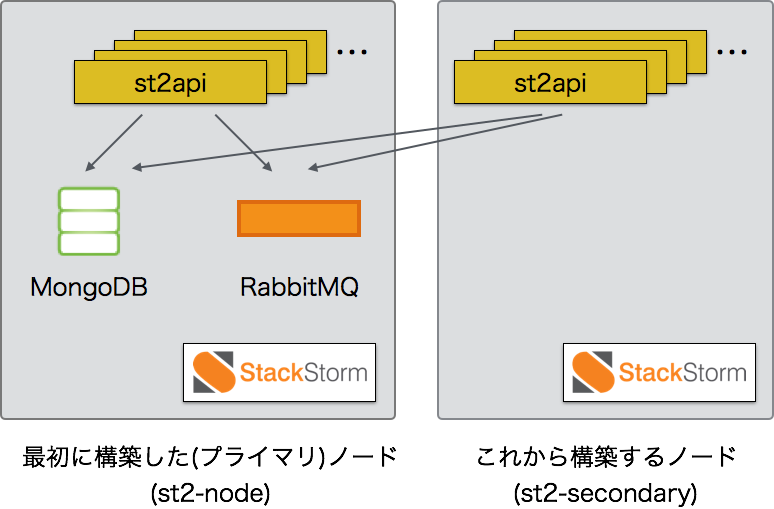
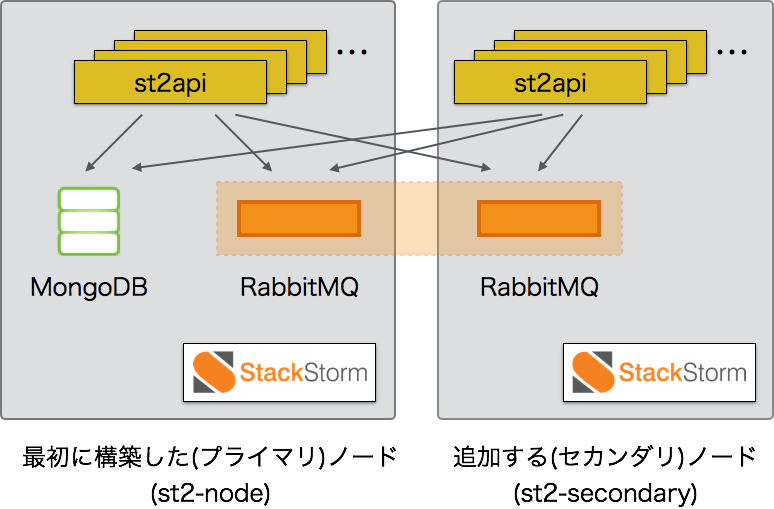
corrects the description to build HA nodes

diff --git a/chapter2-2.md b/chapter2-2.md
@@ -1,26 +1,49 @@
 ## High Available な環境構築
-　これまで StackStorm の使い方や機能拡張の方法など、どちらかというと開発寄りな内容について解説してきましたが、ここからは StackStorm の運用のポイントについて解説します。  
-　本稿の冒頭で StackStorm が Scalable で High Available なアーキテクチャであることを説明しました。ここでは、冗長構成な StackStorm における運用の注意点について簡単に解説します。  
+　これまで StackStorm の使い方や機能拡張の方法など、開発寄りな内容について解説してきましたが、ここからは StackStorm の運用のポイントについて解説します。  
+　本稿の冒頭で StackStorm が Scalable で High Available なアーキテクチャであることを説明しました。ここでは、冗長構成な StackStorm における運用の注意点について解説します。  
 
 ### 冗長構成な StackStorm の構築
 
 　ここで冗長構成な StackStorm を構築します。  
-　[StackStorm のドキュメント](https://docs.stackstorm.com/reference/ha.html#reference-ha-setup) に、以下の構成での構築方法が詳細に解説されていますが、ここでは簡単のために別の方法を紹介します。  
+　[StackStorm のドキュメント](https://docs.stackstorm.com/reference/ha.html#reference-ha-setup) に、以下の構成での構築方法が解説されていますが、ここでは簡単のために別の方法を紹介します。  
 
 ![StackStorm HA reference deployment](https://docs.stackstorm.com/_images/st2-deployment-multi-node.png)
 (出典：[High availability deployment | StackStorm 2.0.1 documentation](https://docs.stackstorm.com/reference/ha.html))
 
-　ここでは、最初に構築したノードをプライマリノードとし、これから構築するノードをセカンダリノードとする環境を構築します。図にすると以下のようになります。  
+　ここでは、最初に構築したノードをプライマリノードとし、これから構築するノードをセカンダリノードとする環境を構築します。図にすると以下のようになります。なお以降では Mistral を利用しないため PostgreSQL についての設定は省略します。  
 
 ![StackStorm 冗長構成](https://raw.githubusercontent.com/userlocalhost2000/st2-draft/master/img/ha-architecture.png)
 
 　上記の構成で StackStorm の各サービスは冗長化しますが「プライマリノードが単一障害点になるじゃないか！」と思う鋭い読者もいるかもしれません。  
-　確かに現状はその通りですが、[MongoDB のレプリケーション](https://docs.mongodb.com/manual/replication/) や [RabbitMQ の HA queue](https://www.rabbitmq.com/ha.html) を利用することで、完全に単一障害点を無くす構成の StackStorm 環境を構築することもできます。これらの解説については本稿の趣旨を超えるため、ここでは割愛し上記の構成で話を進めます。  
+　確かに現状はその通りですが、[MongoDB のレプリケーション](https://docs.mongodb.com/manual/replication/) や [RabbitMQ のクラスタ設定](https://www.rabbitmq.com/clustering.html) を利用することで、完全に単一障害点を無くす構成の StackStorm 環境を構築することもできます (本章の最後で DMM.com ラボにおける構成を紹介します)。これらの解説については本稿の趣旨を超えるためここでは割愛します。ただし RabbitMQ については、StackStorm のクラスタ指定の説明の都合上、簡単に解説します。 
 
 ### プライマリノードの設定変更
 　冗長構成を構築するに際し、プライマリノードにおいて、セカンダリノードからの MongoDB 及び RabbitMQ へのアクセスを許可するための設定と NFS の設定を行います。  
 
-　まずは MongoDB にセカンダリノードからアクセスできるよう設定ファイル (/etc/mongodb.conf) ファイルを以下の通り修正し、サービスを再起動させます。  
+#### RabbitMQ の設定
+　RabbitMQ のクラスタ環境を構築するために、ノード間で共通の [Erlang Cookie] を設定します。Erlang Cookie は RabbitMQ の実装言語 Erlang の言語機能で、複数ノード間での相互接続を許可するためのセキュリティ機構です。Cookie を指定した場合、同一の設定値を持つノード同士でのみ接続することができます。  
+　ここでは、以下の通り RabbitMQ の Erlang Cookie を再設定し、RabbitMQ を再起動させます。  
+
+```
+vagrant@st2-node:~$ sudo service rabbitmq-server stop
+vagrant@st2-node:~$ sudo bash -c 'echo stackstorm-mq-cluster > /var/lib/rabbitmq/.erlang.cookie'
+vagrant@st2-node:~$ sudo service rabbitmq-server start
+```
+
+　また、お互いのノードでホスト名の名前解決ができるよう `/etc/hosts` に以下の２行を追加します。  
+
+```
+vagrant@st2-node:~$ sudo bash -c 'cat <<EOS >> /etc/hosts
+192.168.0.100     st2-node
+192.168.0.101     st2-secondary
+EOS
+'
+```
+
+　クラスタ設定の方法については、セカンダリノードを構築する際に解説します。  
+
+#### MongoDB の設定
+　続いて MongoDB にセカンダリノードからアクセスできるよう設定ファイル (/etc/mongodb.conf) ファイルを以下の通り修正し、サービスを再起動させます。  
 
 ```diff
 --- etc/mongod.conf.orig	2016-11-28 07:18:22.490265432 +0000
@@ -37,41 +60,10 @@
 ```
 ```sh
 vagrant@st2-node:~$ sudo service mongod restart
-mongod stop/waiting
-mongod start/running, process 21613
-vagrant@st2-node:~$ 
 ```
 
-　これに伴い StackStorm の設定ファイル `/etc/st2/st2.conf` を以下の通り修正し、サービスを再起動させます。  
-
-```diff
---- etc/st2/st2.conf.orig	2016-11-28 07:08:40.748655911 +0000
-+++ /etc/st2/st2.conf	2016-11-28 10:12:46.297432991 +0000
-@@ -81,3 +81,6 @@
- 
- [keyvalue]
- encryption_key_path = /etc/st2/keys/datastore_key.json
-+
-+[database]
-+host = 192.168.0.100
-```
-```sh
-vagrant@st2-node:~$ sudo st2ctl restart
-```
-
-　続いて RabbitMQ にセカンダリノード用のアカウントを作成します。これまでのマスターノードは、デフォルトで作成される `guest` アカウントでログインしていましたが、[`guest` アカウントはローカルホストからしかアクセス出来ない](https://www.rabbitmq.com/access-control.html) ため、ここで別アカウント `st2` を作成し、権限の付与を行います。  
-
-```
-vagrant@st2-node:~$ sudo rabbitmqctl add_user st2 passwd
-Creating user "st2" ...
-...done.
-vagrant@st2-node:~$ sudo rabbitmqctl set_permissions st2 ".*" ".*" ".*"
-Setting permissions for user "st2" in vhost "/" ...
-...done.
-vagrant@st2-node:~$ 
-```
-
-　最後に StackStorm で冗長構成を組む場合、コンテンツディレクトリ (`/opt/stackstorm/` ディレクトリ配下の `packs` と `virtualenvs` の２つ) を共有させる必要があります。ここではプライマリノードに NFS サーバを構築し、セカンダリノードからコンテンツディレクトリがマウントできるようにします。  
+#### NFS の設定
+　StackStorm で冗長構成を組む場合、StackStorm が参照するコンテンツディレクトリ (`/opt/stackstorm/` ディレクトリ配下の `packs` と `virtualenvs` の２つ) をノード間で共有させる必要があります。ここではプライマリノードに NFS サーバを構築し、セカンダリノードからコンテンツディレクトリがマウントできるようにします。  
 
 　まずは NFS サーバをパッケージからインストールします。  
 ```
@@ -89,7 +81,7 @@ vagrant@st2-node:~$ sudo apt-get install nfs-kernel-server
 +/opt/stackstorm/packs         192.168.0.101(rw,sync,no_subtree_check,anonuid=0,anongid=999)
 +/opt/stackstorm/virtualenvs   192.168.0.101(rw,sync,no_subtree_check,anonuid=0,anongid=999)
 ```
-　オールインワンインストールをした場合、コンテンツディレクトリの所有者（ユーザ・グループ）は root/st2packs に設定されます。マウント先でも同様に扱えるようにするため `anonuid` オプションに root の uid を設定し、`anongid` オプションに st2packs の gid を設定します。尚 st2packs の gid は以下の方法で確認できます。  
+　オールインワンインストールをした場合、コンテンツディレクトリの所有者（ユーザ・グループ）は root/st2packs に設定されます。マウント先でも同様に扱えるようにするため `anonuid` と `anongid` オプションに、それぞれ root の uid と st2packs の gid を設定します。尚 st2packs の gid は以下の方法で確認できます。  
 
 ```sh
 vagrant@st2-node:~$ grep 'st2packs' /etc/group
@@ -98,26 +90,19 @@ vagrant@st2-node:~$
 ```
 
 　最後に NFS サーバを再起動させれば完了です。  
+
 ```
 vagrant@st2-node:~$ sudo service nfs-kernel-server restart
- * Stopping NFS kernel daemon
-   ...done.
- * Unexporting directories for NFS kernel daemon...
-   ...done.
- * Exporting directories for NFS kernel daemon...
-   ...done.
- * Starting NFS kernel daemon
-   ...done.
-vagrant@st2-node:~$ 
 ```
 
 ### セカンダリノードの構築
 　続いて、セカンダリノードの構築を行います。  
-　まず、これまでと同じ方法でセカンダリノードを作成し、StackStorm をインストールします。その際 Vagrantfile に設定したプライベートネットワークの IP アドレスを最初のノードに設定したものと違う値を設定してください。ここでは以下の通り Vagrantfile を修正して、[StackStorm のインストール](...) で解説した手順でインストールします。  
+　基本編の [StackStorm のインストール](https://github.com/userlocalhost/st2-draft/blob/master/chapter1-3.md) で解説した方法で Vagrant からセカンダリノードを作成し、StackStorm をインストールします。その際 Vagrantfile に設定するプライベートネットワークの IP アドレスを、プライマリノードに設定したものと違う値を設定してください。ここでは以下の通り Vagrantfile を修正して、セカンダリノードをインストールします。  
 
 ```diff
---- vagrantfile.orig	2016-11-28 16:38:22.000000000 +0900
-+++ vagrantfile	2016-11-28 16:38:30.000000000 +0900
+$ diff Vagrantfile.orig Vagrantfile
+--- Vagrantfile.orig    2016-11-16 19:06:55.000000000 +0900
++++ Vagrantfile 2016-12-05 16:49:56.000000000 +0900
 @@ -27,6 +27,8 @@
    # create a private network, which allows host-only access to the machine
    # using a specific ip.
@@ -138,31 +123,50 @@ vagrant@st2-node:~$
    #
    # view the documentation for the provider you are using for more
    # information on available options.
+$ vagrant up
+$ vagrant ssh
 ```
 
-　StackStorm がインストールされたら、DB・MQ の接続先をプライマリノードに変更するために StackStorm の設定ファイル `/etc/st2/st2.conf` を以下の通り修正します。  
+　セカンダリノードが立ち上がったら、構築したノードで StackStorm をインストールします。  
 
-```diff
---- etc/st2/st2.conf.orig	2016-11-28 09:33:07.591549477 +0000
-+++ /etc/st2/st2.conf	2016-11-28 09:53:40.659583816 +0000
-@@ -73,7 +73,7 @@
- ssh_key_file = /home/stanley/.ssh/stanley_rsa
- 
- [messaging]
--url = amqp://guest:guest@127.0.0.1:5672/
-+url = amqp://st2:passwd@192.168.0.100:5672/
- 
- [ssh_runner]
- remote_dir = /tmp
-@@ -81,3 +81,6 @@
- 
- [keyvalue]
- encryption_key_path = /etc/st2/keys/datastore_key.json
-+
-+[database]
-+host = 192.168.0.100
+```
+vagrant@st2-secondary:~$ curl -sSL https://stackstorm.com/packages/install.sh | bash -s -- --user=st2admin --password=password
 ```
 
+#### RabbitMQ クラスタ設定
+　プライマリノードで実行した時と同じように、セカンダリノードでも `/etc/hosts` の修正、及び RabbitMQ の Erlang Cookie の再設定を行います。  
+
+```
+vagrant@st2-secondary:~$ sudo bash -c 'cat <<EOS >> /etc/hosts
+192.168.0.100     st2-node
+192.168.0.101     st2-secondary
+EOS
+'
+```
+
+```
+vagrant@st2-secondary:~$ sudo service rabbitmq-server stop
+vagrant@st2-secondary:~$ sudo bash -c 'echo stackstorm-mq-cluster > /var/lib/rabbitmq/.erlang.cookie'
+vagrant@st2-secondary:~$ sudo service rabbitmq-server start
+```
+
+　２つのノードで同じ Cookie の値を持つ RabbitMQ ノードを起動させたところで、クラスタ設定を行います。クラスタ設定を行うことで、クラスタのノード間で、メッセージキューを除く全ての管理・設定情報が共有されるようになります。クラスタ設定はどちらか一方のノードでのみ行えば良いです。ここではセカンダリノードで以下の通り、クラスタ設定作業を実施します。  
+
+```
+vagrant@st2-secondary:~$ sudo rabbitmqctl stop_app
+vagrant@st2-secondary:~$ sudo rabbitmqctl join_cluster rabbit@st2-node
+vagrant@st2-secondary:~$ sudo rabbitmqctl start_app
+```
+
+　続いて RabbitMQ に外部からのアクセス用のユーザを追加します。これまでは、デフォルトで作成される `guest` アカウントでログインしていましたが、[`guest` アカウントはローカルホストからしかアクセス出来ない](https://www.rabbitmq.com/access-control.html) ため、ここで別アカウント `st2` を作成し、アクセス権限の付与を行います。  
+　クラスタ設定を行っているので、どちらか一方のノードで作成・設定作業をすれば、もう一方のノードにも同じ設定が反映されます。  
+
+```
+vagrant@st2-secondary:~$ sudo rabbitmqctl add_user st2 passwd
+vagrant@st2-secondary:~$ sudo rabbitmqctl set_permissions st2 ".*" ".*" ".*"
+```
+
+#### NFS の設定
 　続いて NFS でサーバのプライマリノードのコンテンツディレクトリをマウントし、実行環境及び静的データをプライマリノードと共有します。`/etc/fstab` を以下の通り修正し、それぞれのマウントポイントで指定したディレクトリをマウントをします。  
 
 ```diff
@@ -179,15 +183,56 @@ vagrant@st2-secondary:~$ sudo mount /opt/stackstorm/packs
 vagrant@st2-secondary:~$ sudo mount /opt/stackstorm/virtualenvs
 ```
 
-　最後に StackStorm の各サービスを再起動させれば、冗長環境の構築は完了です。  
+### StackStorm 設定ファイルの修正
+　最後に、これらの設定変更に伴う StackStorm の設定ファイルの修正を行います。プライマリ、セカンダリの両ノードで以下の通り StackStorm の設定ファイル `/etc/st2/st2.conf` を修正します。  
 
-```sh
-vagrant@st2-secondary:~$ sudo st2ctl restart
+```diff
+--- etc/st2/st2.conf.orig       2016-12-07 07:31:31.606370802 +0000
++++ /etc/st2/st2.conf   2016-12-07 07:48:08.470374159 +0000
+@@ -73,7 +73,7 @@
+ ssh_key_file = /home/stanley/.ssh/stanley_rsa
+ 
+ [messaging]
+-url = amqp://guest:guest@127.0.0.1:5672/
++cluster_urls = amqp://st2:passwd@192.168.0.100:5672/, amqp://st2:passwd@192.168.0.101:5672/
+ 
+ [ssh_runner]
+ remote_dir = /tmp
+@@ -81,3 +81,6 @@
+ 
+ [keyvalue]
+ encryption_key_path = /etc/st2/keys/datastore_key.json
++
++[database]
++host = 192.168.0.100
 ```
 
-　ここまでで StackStorm は冗長な構成となり、例え `st2-secondary` ノードが停止しても、StackStorm 全体に影響を及ぼすことはありません。  
-　尚、参考までに DMM.com ラボの環境では更にプライマリノードから RabbitMQ、MongoDB を外に出し、PostgreSQL を MySQL に変えた以下の構成を採っています。  
+　RabbitMQ の接続先を設定していた `url` パラメータに代わり `cluster_urls` で、クラスタ設定を行った RabbitMQ ノード群の設定を行います。また `[database]` セクションの `host` パラメータでは、参照する MongoDB の接続先を指定しています。  
+　上記の設定を行ったら、両ノードで以下の通り StackStorm を再起動させます。  
+
+```
+$ sudo st2ctl restart
+```
+
+　ここまでの設定で冗長構成な StackStorm 環境を構築することができました。以下のように、一方のノードでインストールした Pack がもう一方のノードにも反映されることが確認できます。  
+
+```
+vagrant@st2-node:~$ st2 pack install github
+```
+
+```
+vagrant@st2-secondary:~$ st2 pack list | grep github
+| github  | st2 content pack containing github integrations | 0.6.0   | StackStorm, Inc. |
+vagrant@st2-secondary:~$
+```
+
+　上記のように、セカンダリノードで github の Pack の情報が得られれば成功です。またセカンダリノードを停止させても、Pack のインストールから、Sensor のイベント監視、Action の実行を継続的に行うことができます。  
+　
+### DMM.com ラボにおける StackStorm 環境
+　参考として、DMM.com ラボにおける StackStorm 環境を以下で紹介します。  
 
 ![DMM.com ラボの StackStorm 環境](https://raw.githubusercontent.com/userlocalhost2000/st2-draft/master/img/dmm-architecture.png)
 
-　このように StackStorm ノードから状態を保つ要素を外に出しステートレス (Stateless) にすることで、StackStorm ノードをスケールさせることができるようになります。  
+　DMM.com ラボの環境では、プライマリノードから更に RabbitMQ、MongoDB を外に出し、PostgreSQL を MySQL に変えた構成を採っています。また RabbitMQ は、上述のクラスタ設定に加えて、メッセージキューのデータもノード間で複製する [HA Queue](https://www.rabbitmq.com/ha.html) の設定を行うことで、より可用性の高い環境を構築しています。  
+　更に、コンテンツディレクトリも可用性の高い共有ストレージに置くことで、StackStorm ノードから状態を持つ要素を完全に無くすことができるようになります。  
+　このように StackStorm ノードをステートレス (stateless) にすることで、StackStorm ノードをスケールさせることができるようになります。  
